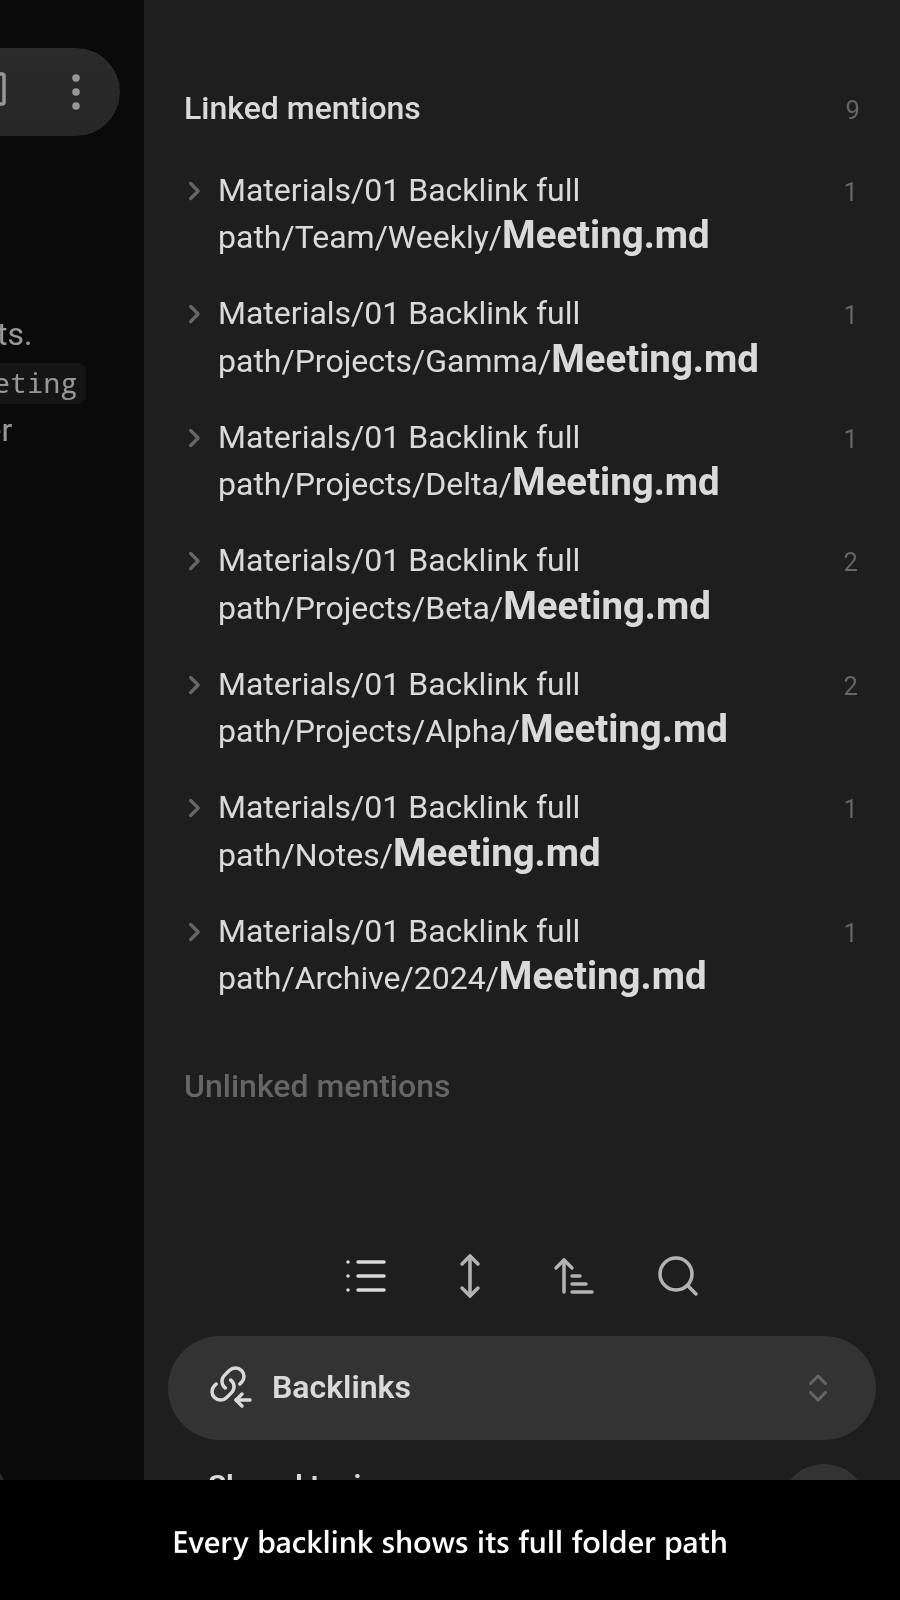
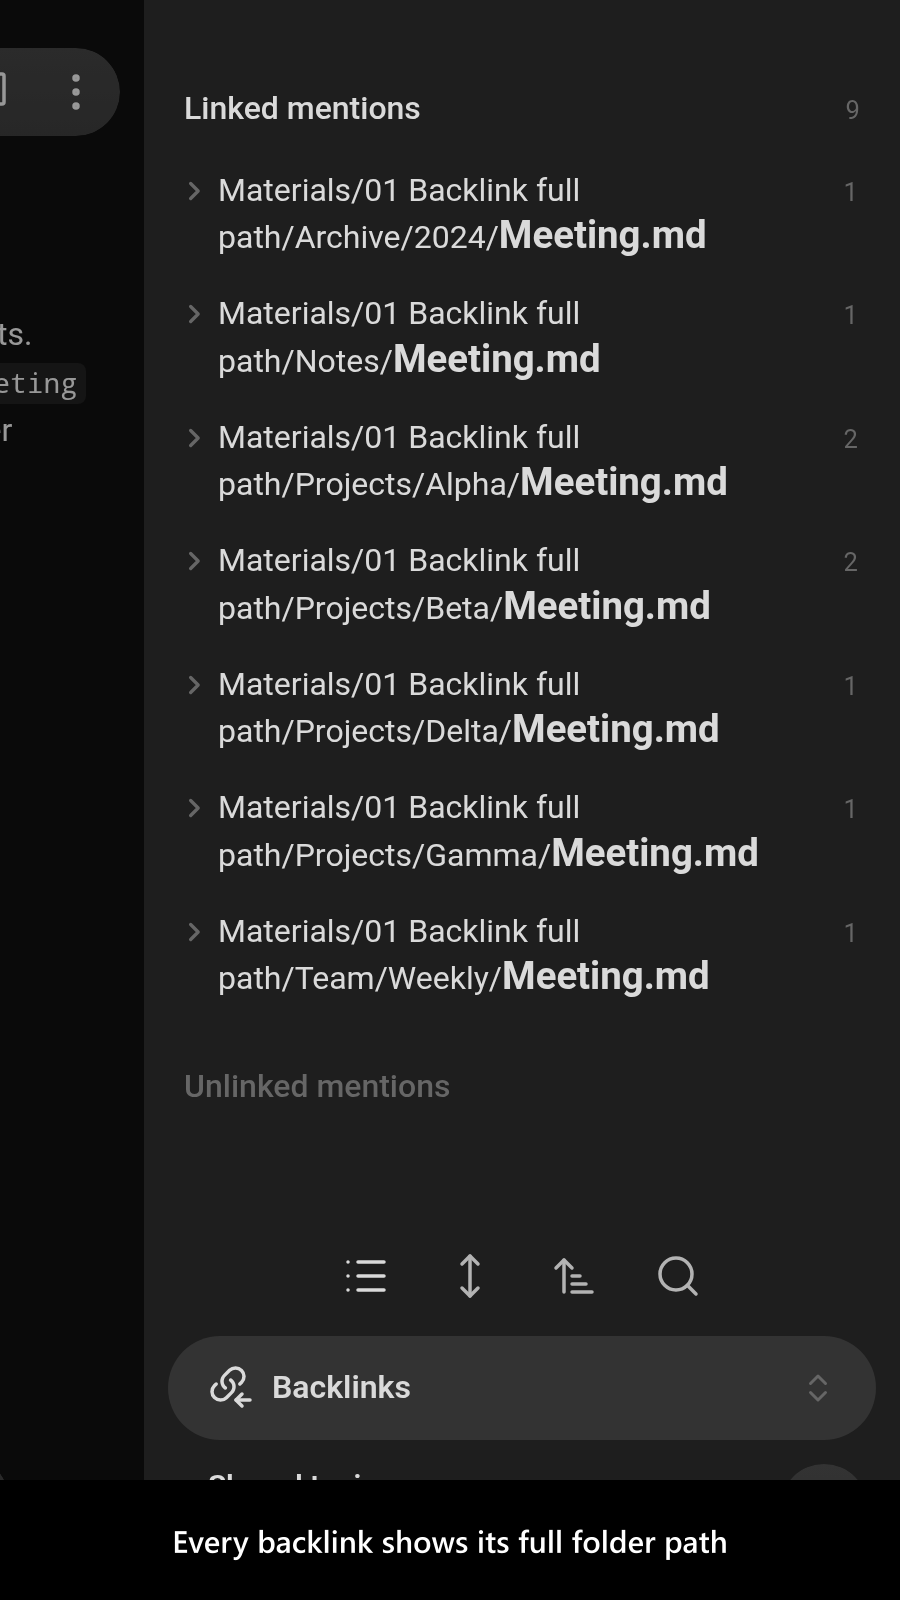
test(screenshots): make the mobile Backlinks row order deterministic
The mobile suite had the tie the desktop suite already breaks. Every
fixture note is named Meeting.md, and the Backlinks pane's default sort
compares basenames only, so the rows kept the order in which the backlink
search's async reads completed. The suite now stamps each fixture with a
fixed, distinct mtime in path order and sorts the pane old-to-new, so the
mobile frames list the rows in the same order as the desktop frames.

The stamp rewrites every note, so the pane re-runs its search. A fixed
settle after it once shot every frame with a row missing, so the closure
now waits until every linking note is listed again.

Re-shoot the mobile frames. Three captures under the final code produced
identical pixels.

diff --git a/src/screenshots.android-capture.integration.test.ts b/src/screenshots.android-capture.integration.test.ts
@@ -62,8 +62,10 @@ import {
  * The slice of Obsidian's backlink pane this storyboard drives.
  */
 interface BacklinkPaneComponent {
+  backlinkDom: BacklinkResultDom;
   setCollapseAll: (this: void, isCollapsed: boolean) => void;
   setExtraContext: (this: void, hasExtraContext: boolean) => void;
+  setSortOrder: (this: void, sortOrder: string) => void;
 }
 
 /**
@@ -71,6 +73,21 @@ interface BacklinkPaneComponent {
  */
 interface BacklinkPaneView {
   backlink?: BacklinkPaneComponent;
+}
+
+/**
+ * The pane's linked-mentions result list, reduced to the lookup of files it
+ * currently lists.
+ */
+interface BacklinkResultDom {
+  resultDomLookup: Map<BacklinkResultFile, unknown>;
+}
+
+/**
+ * A file keyed in the pane's result lookup, reduced to its path.
+ */
+interface BacklinkResultFile {
+  path: string;
 }
 
 /**
@@ -146,6 +163,12 @@ const STAGED_MEETING_FOLDERS = [
   'Team/Weekly'
 ];
 
+/**
+ * Three from the demo vault plus the four staged above; waiting for the full
+ * set stops a shot being taken while the pane is still filling in.
+ */
+const BACKLINK_COUNT = 3 + STAGED_MEETING_FOLDERS.length;
+
 const IMAGES_DIRECTORY = join(process.cwd(), 'images', 'screenshots');
 const DEMO_VAULT_PATH = join(process.cwd(), 'demo-vault');
 
@@ -169,7 +192,7 @@ beforeAll(async () => {
   await vault.syncToDevice();
 
   setupDiagnostics = await evalInObsidian({
-    async callback({ app, fontSizeInPixels, lib: { waitUntil }, subjectNotePath }) {
+    async callback({ app, backlinkCount, fontSizeInPixels, lib: { waitUntil }, subjectNotePath }) {
       /*
        * Under the transport's ~30s per-closure cap, not at it.
        * This wait, the render wait below and a settle share one budget, so at 20_000 apiece it declared 41.5s.
@@ -179,10 +202,6 @@ beforeAll(async () => {
        */
       const SETTLE_TIMEOUT_IN_MILLISECONDS = 11_000;
       const SETTLE_DELAY_IN_MILLISECONDS = 1500;
-      // Three from the demo vault plus the four staged above; waiting for the
-      // full set stops a shot being taken while the pane is still filling in.
-      const BACKLINK_COUNT = 7;
-
       // A closure runs inside ONE Appium `execute/sync` call, which WebDriver
       // caps around 30s — well below the harness's own timeouts. A longer wait
       // in here dies as an opaque `script timeout` rather than as a readable
@@ -211,7 +230,7 @@ beforeAll(async () => {
 
       await waitUntil({
         message: 'the Backlinks pane to list every Meeting note',
-        predicate: () => document.querySelectorAll('.backlink-pane .tree-item-inner').length >= BACKLINK_COUNT,
+        predicate: () => document.querySelectorAll('.backlink-pane .tree-item-inner').length >= backlinkCount,
         timeoutInMilliseconds: RENDER_TIMEOUT_IN_MILLISECONDS
       });
 
@@ -249,7 +268,62 @@ beforeAll(async () => {
         paneItems: document.querySelectorAll('.backlink-pane .tree-item-inner').length
       };
     },
-    input: { fontSizeInPixels: MOBILE_FONT_SIZE_IN_PIXELS, subjectNotePath: SUBJECT_NOTE_PATH },
+    input: { backlinkCount: BACKLINK_COUNT, fontSizeInPixels: MOBILE_FONT_SIZE_IN_PIXELS, subjectNotePath: SUBJECT_NOTE_PATH },
+    vaultPath: vaultPath()
+  });
+
+  // The same tie the desktop suite breaks, broken the same way so both sets show the same row order. Every
+  // row is a `Meeting.md`, and the pane's default sort compares basenames only, so a tie keeps the order the
+  // backlink search's async file reads completed in, which differs from run to run. Give each fixture a
+  // distinct, fixed mtime in path order and sort old-to-new. A closure of its own, so it gets its own share
+  // of the transport's ~30s per-closure cap rather than eating into the setup closure's.
+  await evalInObsidian({
+    async callback({ app, backlinkCount, lib: { waitUntil }, subjectNotePath, subjectRootPath }) {
+      const SETTLE_TIMEOUT_IN_MILLISECONDS = 11_000;
+      const SETTLE_DELAY_IN_MILLISECONDS = 1500;
+      // 2024-01-01T00:00:00Z, one minute apart: fixed values, so nothing about the run leaks into the order.
+      const BASE_MTIME = 1_704_067_200_000;
+      const MTIME_STEP_IN_MILLISECONDS = 60_000;
+
+      const fixtureFiles = app.vault.getMarkdownFiles()
+        .filter((fixtureFile) => fixtureFile.path.startsWith(`${subjectRootPath}/`))
+        .sort((a, b) => a.path.localeCompare(b.path));
+      const expectedMtimes = new Map<string, number>();
+      for (const [index, fixtureFile] of fixtureFiles.entries()) {
+        const mtime = BASE_MTIME + index * MTIME_STEP_IN_MILLISECONDS;
+        expectedMtimes.set(fixtureFile.path, mtime);
+        await app.vault.modify(fixtureFile, await app.vault.read(fixtureFile), { mtime });
+      }
+
+      await waitUntil({
+        message: 'every fixture note to carry its stamped mtime',
+        predicate: () => fixtureFiles.every((fixtureFile) => fixtureFile.stat.mtime === expectedMtimes.get(fixtureFile.path)),
+        timeoutInMilliseconds: SETTLE_TIMEOUT_IN_MILLISECONDS
+      });
+
+      const backlinkView: unknown = app.workspace.getLeavesOfType('backlink')[0]?.view;
+      const backlinks = (backlinkView as BacklinkPaneView | null)?.backlink;
+      backlinks?.setSortOrder('byModifiedTimeReverse');
+
+      // Each `modify` re-indexes its note and the pane re-runs its search, dropping and re-adding rows as the
+      // reads land. A fixed settle was not enough: one run of three shot every frame with a row missing. So
+      // wait until every linking note is back, both in the resolved links and in the pane's linked-mentions
+      // lookup, before settling.
+      await waitUntil({
+        message: 'the Backlinks pane to list every Meeting note again after the mtime stamp',
+        predicate: () => {
+          const linkingPaths = fixtureFiles
+            .filter((fixtureFile) => app.metadataCache.resolvedLinks[fixtureFile.path]?.[subjectNotePath] !== undefined)
+            .map((fixtureFile) => fixtureFile.path);
+          const listedPaths = new Set([...backlinks?.backlinkDom.resultDomLookup.keys() ?? []].map((file) => file.path));
+          return linkingPaths.length === backlinkCount && linkingPaths.every((path) => listedPaths.has(path));
+        },
+        timeoutInMilliseconds: SETTLE_TIMEOUT_IN_MILLISECONDS
+      });
+
+      await sleep(SETTLE_DELAY_IN_MILLISECONDS);
+    },
+    input: { backlinkCount: BACKLINK_COUNT, subjectNotePath: SUBJECT_NOTE_PATH, subjectRootPath: SUBJECT_ROOT_PATH },
     vaultPath: vaultPath()
   });
 });
